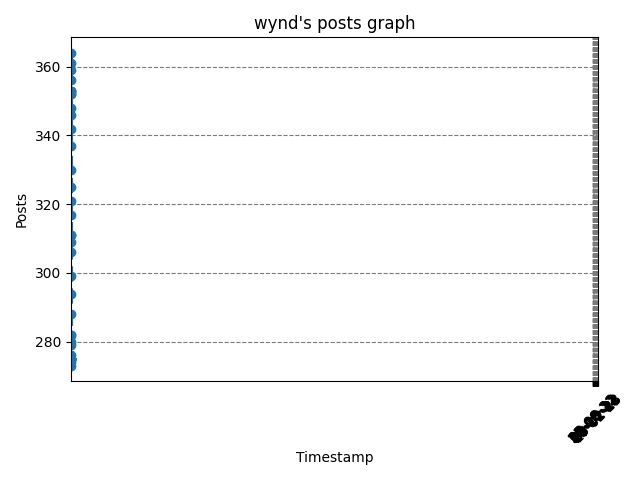
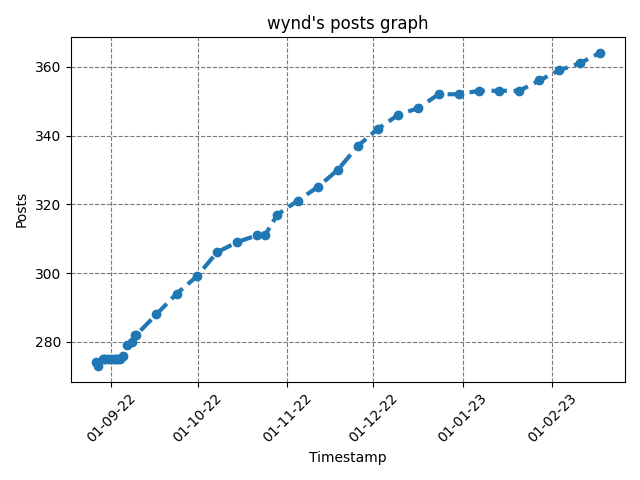
save before rewrite

diff --git a/main.py b/main.py
@@ -1,7 +1,7 @@
 import requests, json, datetime
 import matplotlib.pyplot as plt
 from matplotlib.dates import DateFormatter, date2num
-formatter = DateFormatter('%d-%m-%y')
+formatter = DateFormatter('%d-%m-%y', interval_multiples=False)
 
 
 def graph(user, type1, light, multi=False):
@@ -26,11 +26,11 @@ def graph(user, type1, light, multi=False):
     except FileNotFoundError:
       return "no file"
     y = data[type1]
-    # x = []
-    # for item in data["timestamp"]:
-    #   date = datetime.datetime.utcfromtimestamp(item).strftime('%d-%m-%y')
-    #   x.append(date)
-    plt.plot(data["timestamp"], y, "o--", c = c, linewidth=3)
+    x = []
+    for item in data["timestamp"]:
+      date = datetime.datetime.utcfromtimestamp(item)
+      x.append(date)
+    plt.plot(x, y, "o--", c = c, linewidth=3)
     #plt.xticks(data["timestamp"], x)
     name = data['name']
     plt.title(f"{name}'s {type1} graph")
